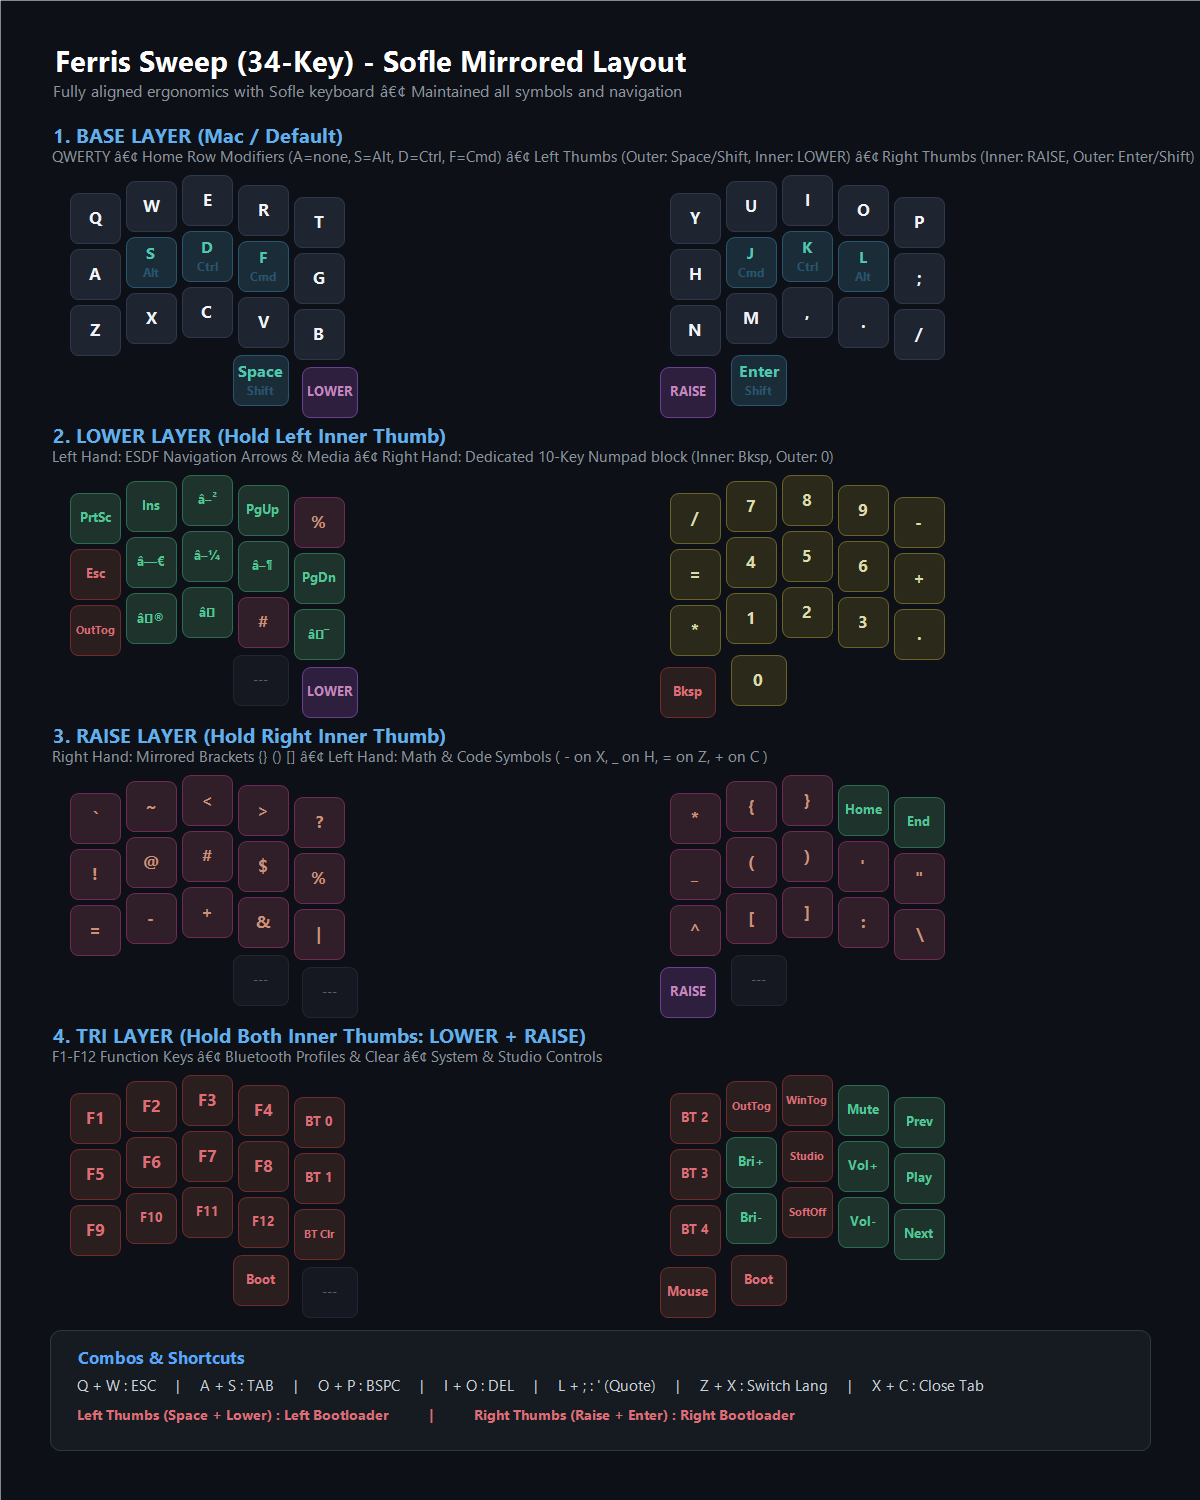
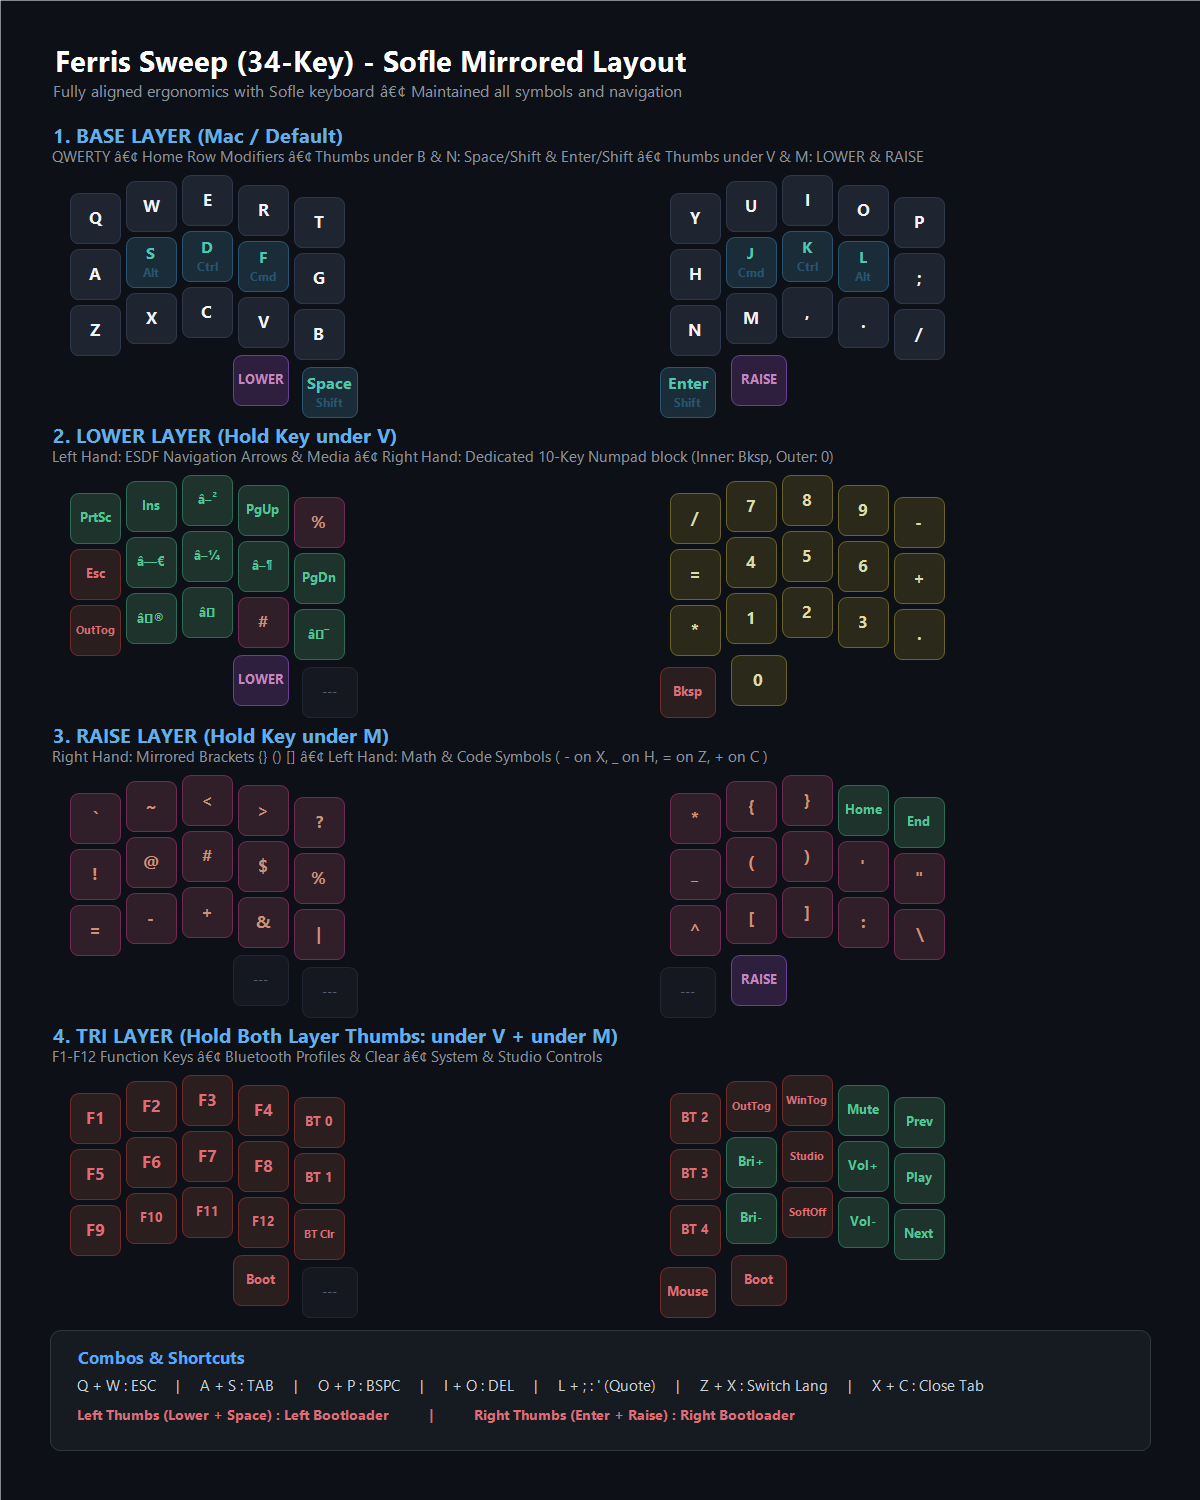
Set thumbs under B and N to Space/Enter (hold Shift) and under V and M to Layers

diff --git a/README.md b/README.md
@@ -75,10 +75,10 @@ This configuration mirrors the Sofle ergonomic setup (`mtolpin-ergo-setup`) on t
 
 - **Base Layer (Mac / Windows)**: QWERTY layout with Home Row Modifiers and standard `;` and `/` positions.
 - **Thumbs**: 
-  - Left Outer: `Space` (Tap) / `Shift` (Hold)
-  - Left Inner: **Lower Layer** (`mo LEF`)
-  - Right Inner: **Raise Layer** (`mo RIG`)
-  - Right Outer: `Enter` (Tap) / `Shift` (Hold)
+  - Left Key under `V`: **Lower Layer** (`mo LEF`)
+  - Left Key under `B`: `Space` (Tap) / `Shift` (Hold)
+  - Right Key under `N`: `Enter` (Tap) / `Shift` (Hold)
+  - Right Key under `M`: **Raise Layer** (`mo RIG`)
 - **Lower Layer (Left Thumb Hold)**: Left-hand ESDF Arrow Navigation + Right-hand 10-key Numpad block.
 - **Raise Layer (Right Thumb Hold)**: Brackets (`{}`, `()`, `[]`) on right hand + math/code symbols (`-`, `_`, `=`, `+`, `\`, `:`).
 - **Tri Layer (Function & BT)**: Activated when holding both thumb layer keys simultaneously (`F1-F12`, Bluetooth profiles, Soft-off, Studio unlock).
